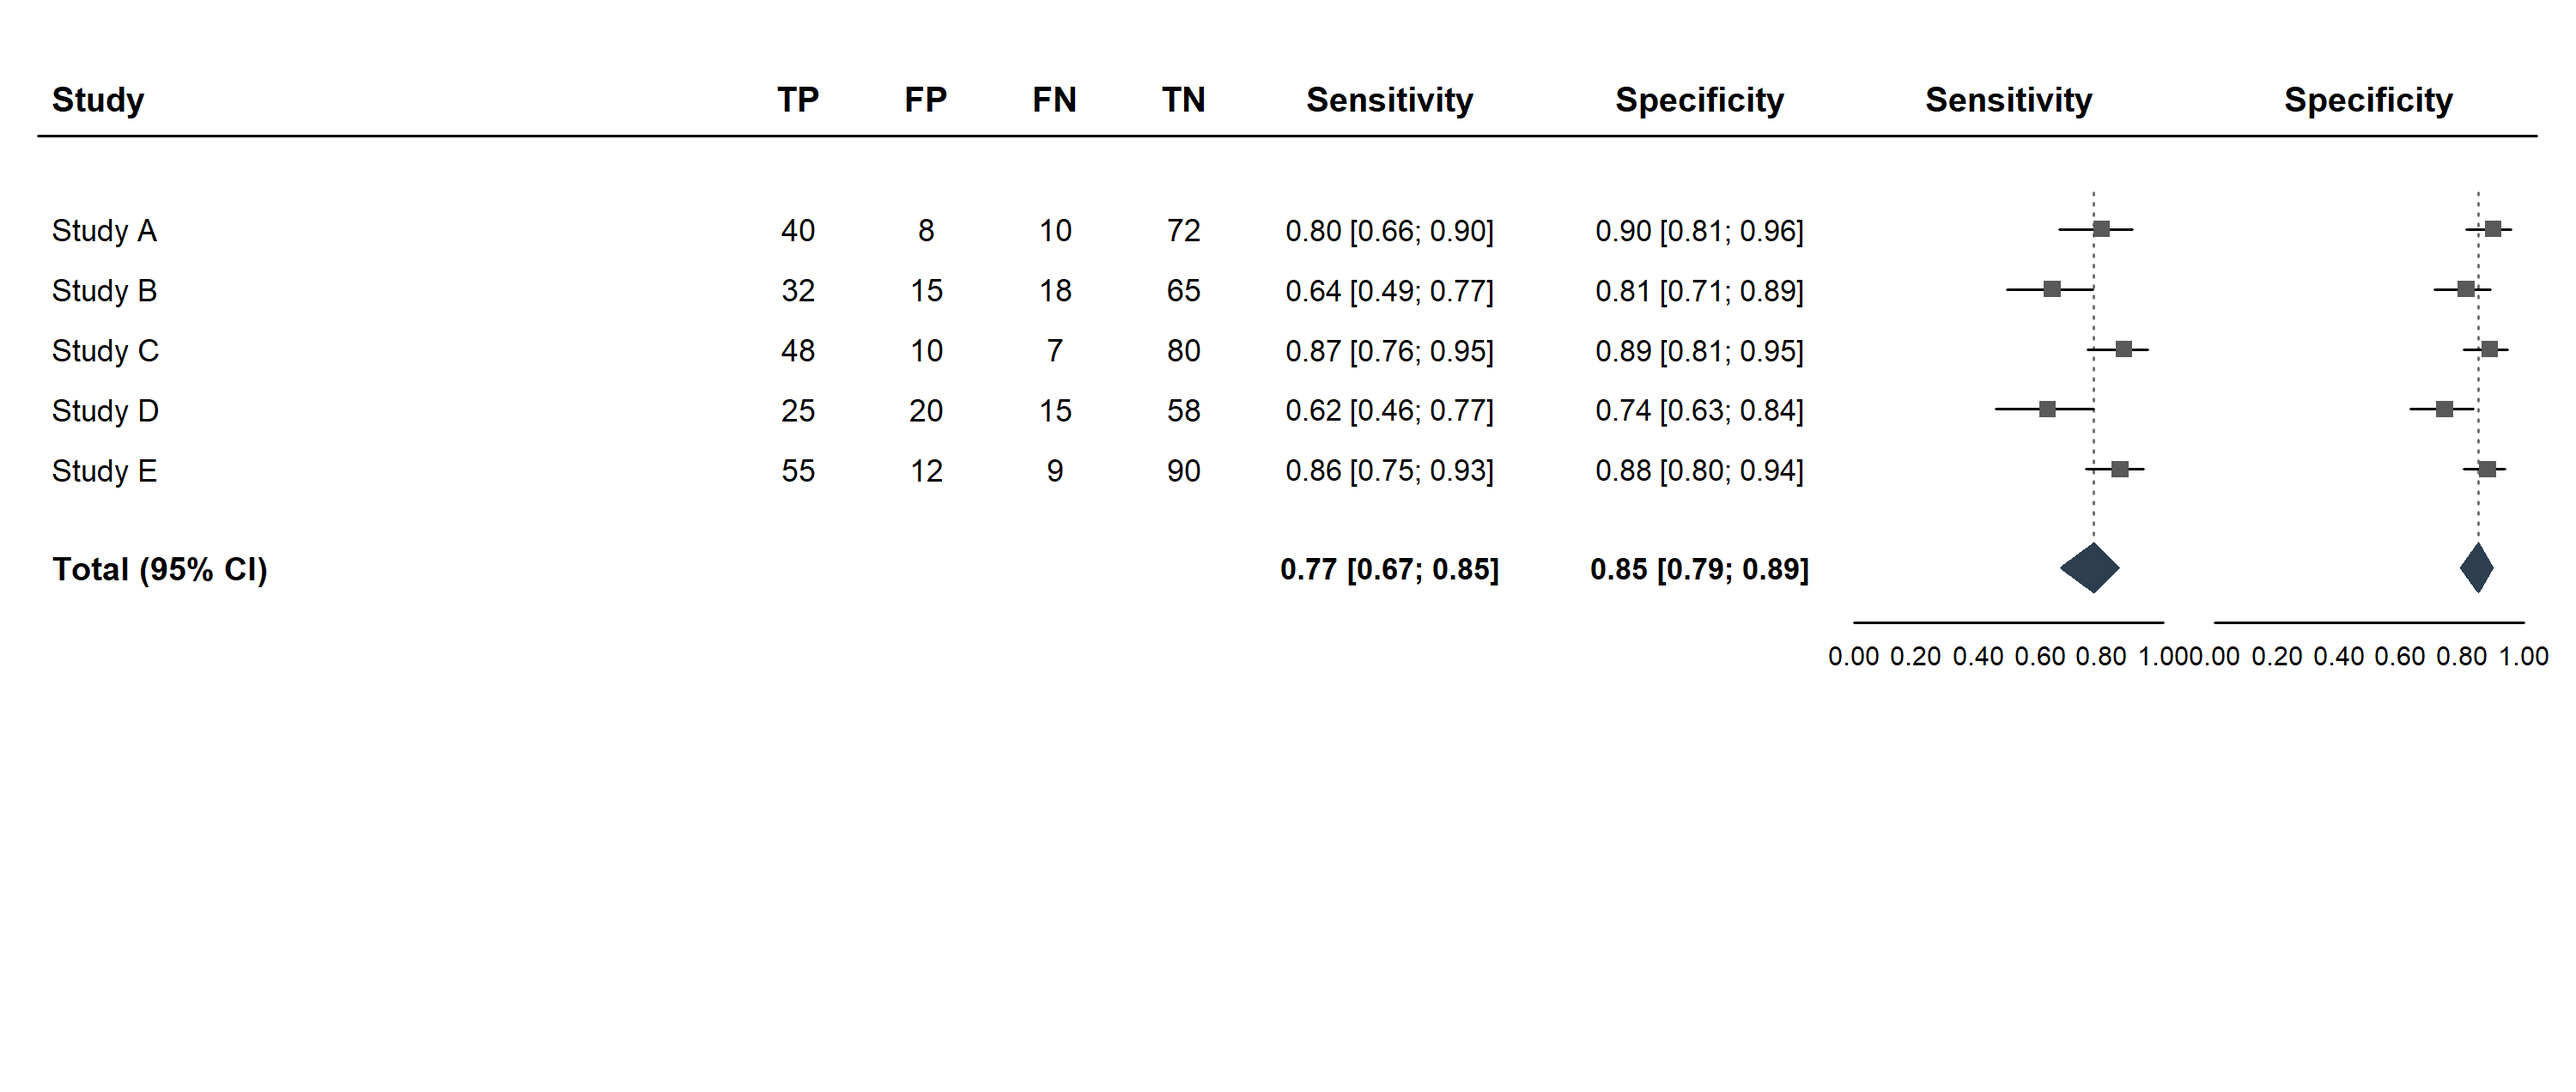
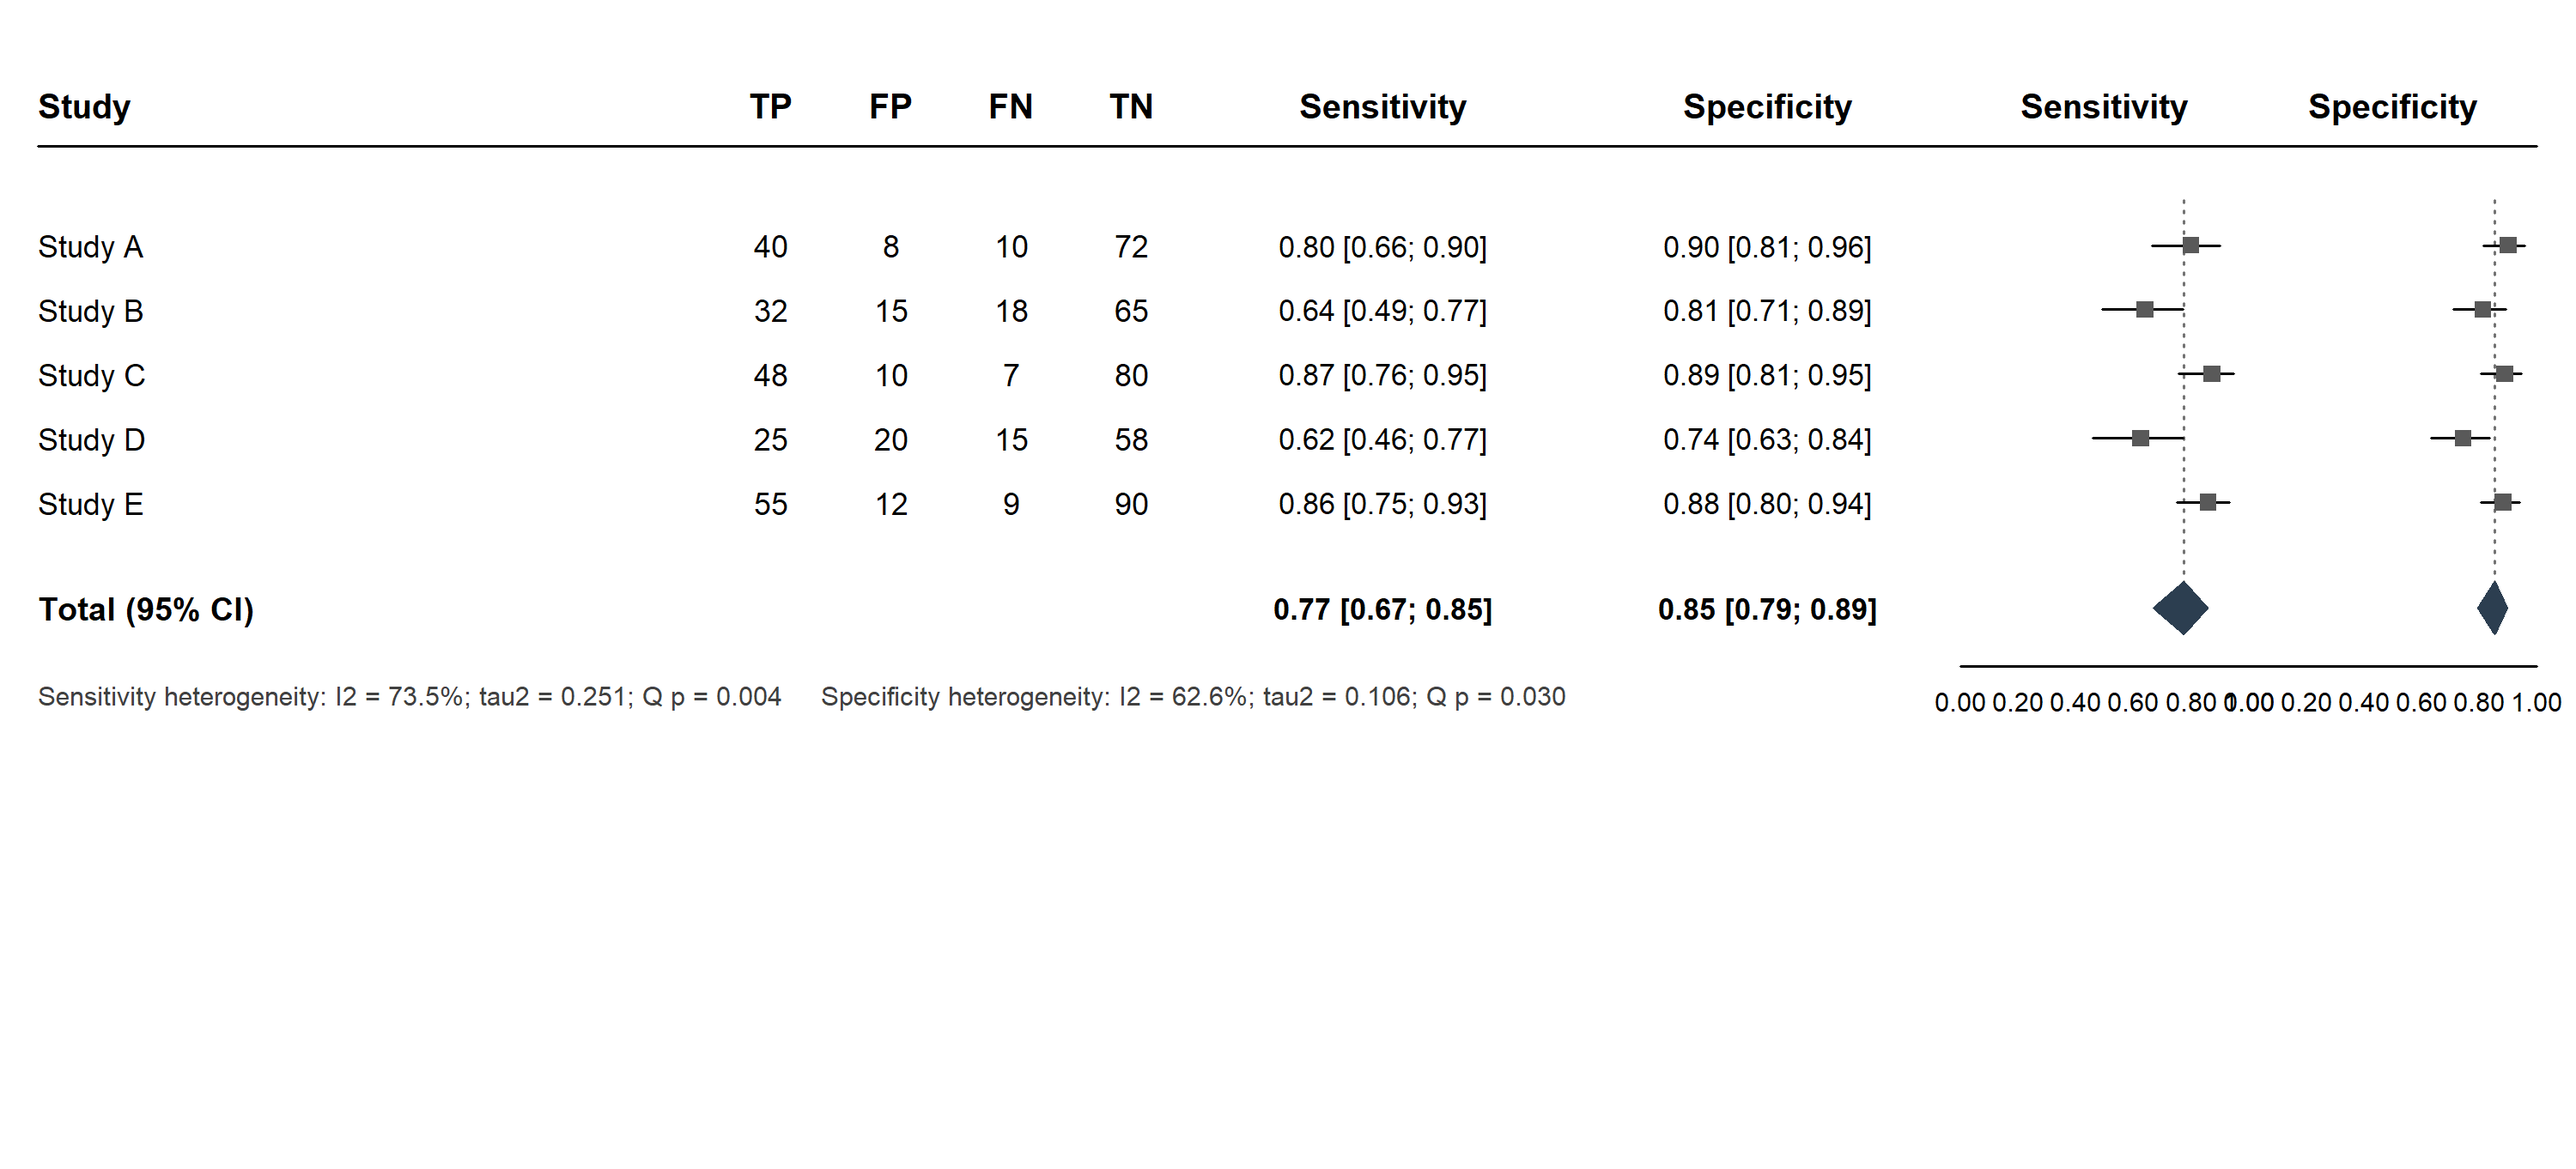
Add forest heterogeneity and adjustable columns

diff --git a/README.md b/README.md
@@ -83,6 +83,24 @@ posttest_probability(fit, prevalence = c(0.10, 0.30, 0.50))
 </tr>
 </table>
 
+### 异质性与列宽调整
+
+使用 `plot_sensspec_forest_meta()` 时，图底部会自动显示灵敏度和特异度各自的
+`I2`、`tau2` 与 Cochran Q 检验 p 值。`column_widths` 是一个命名数值向量；数值是
+各列的相对宽度，可按版面需要调整。下例加宽研究名称和两张森林图区：
+
+```r
+plot_sensspec_forest_meta(
+  meta_sens, meta_spec,
+  output_file = "forest-wide.png",
+  column_widths = c(
+    study = 3.2, tp = 0.45, fp = 0.45, fn = 0.45, tn = 0.45,
+    sens_text = 1.5, spec_text = 1.5,
+    sens_plot = 1.2, spec_plot = 1.2
+  )
+)
+```
+
 ### 结果如何解释
 
 - 森林图菱形：分别汇总灵敏度与特异度，适用于展示每个结局的异质性。
